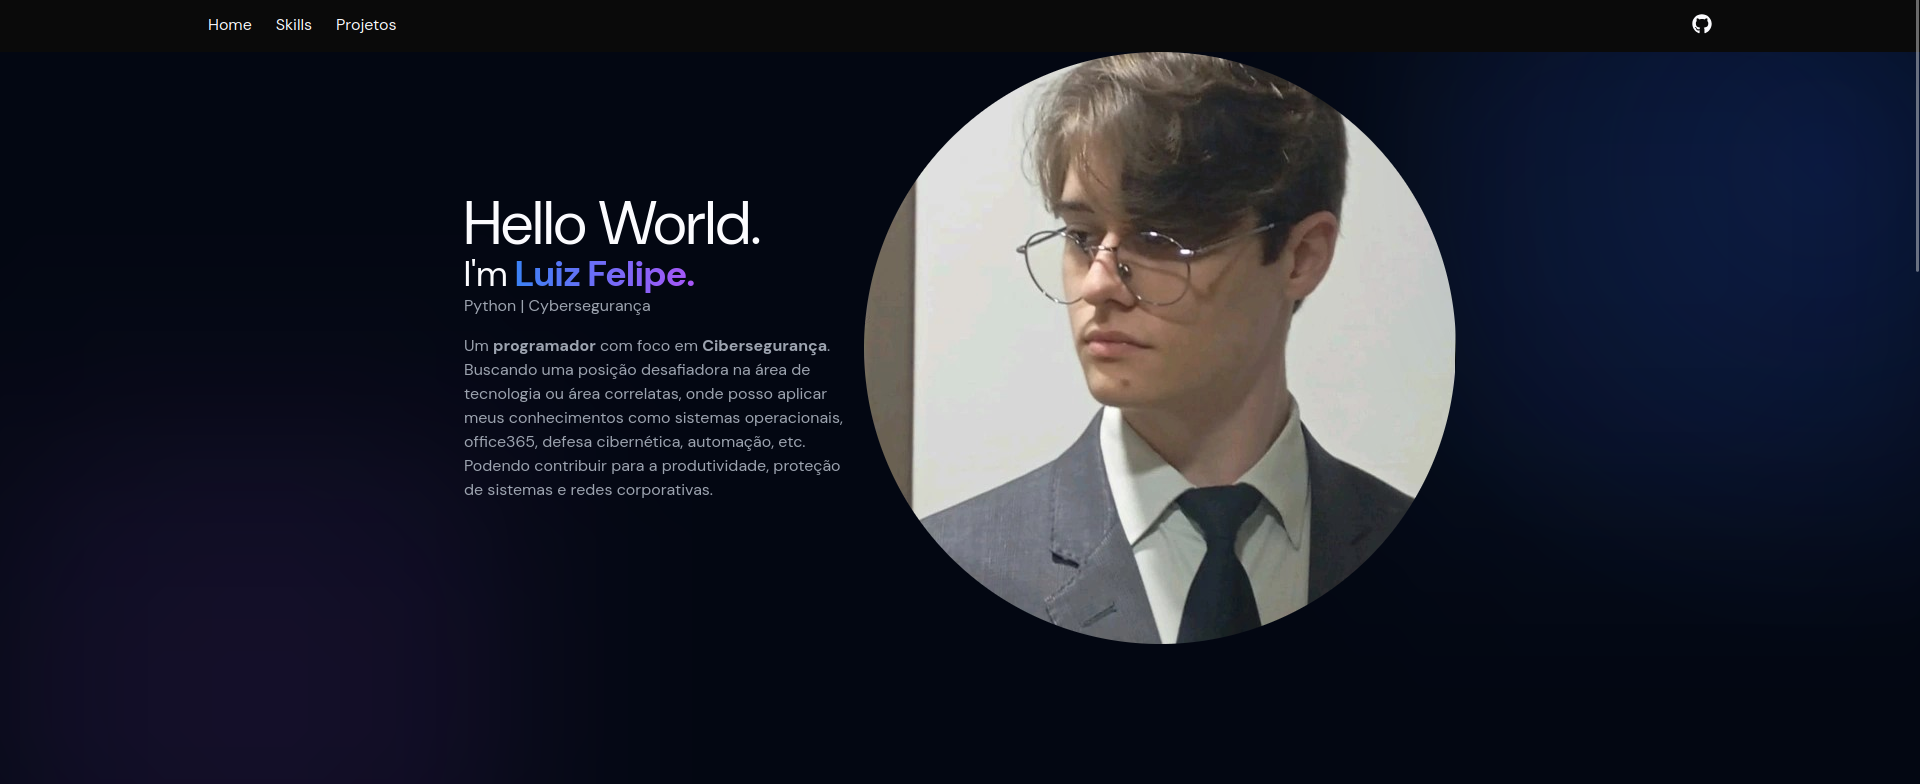
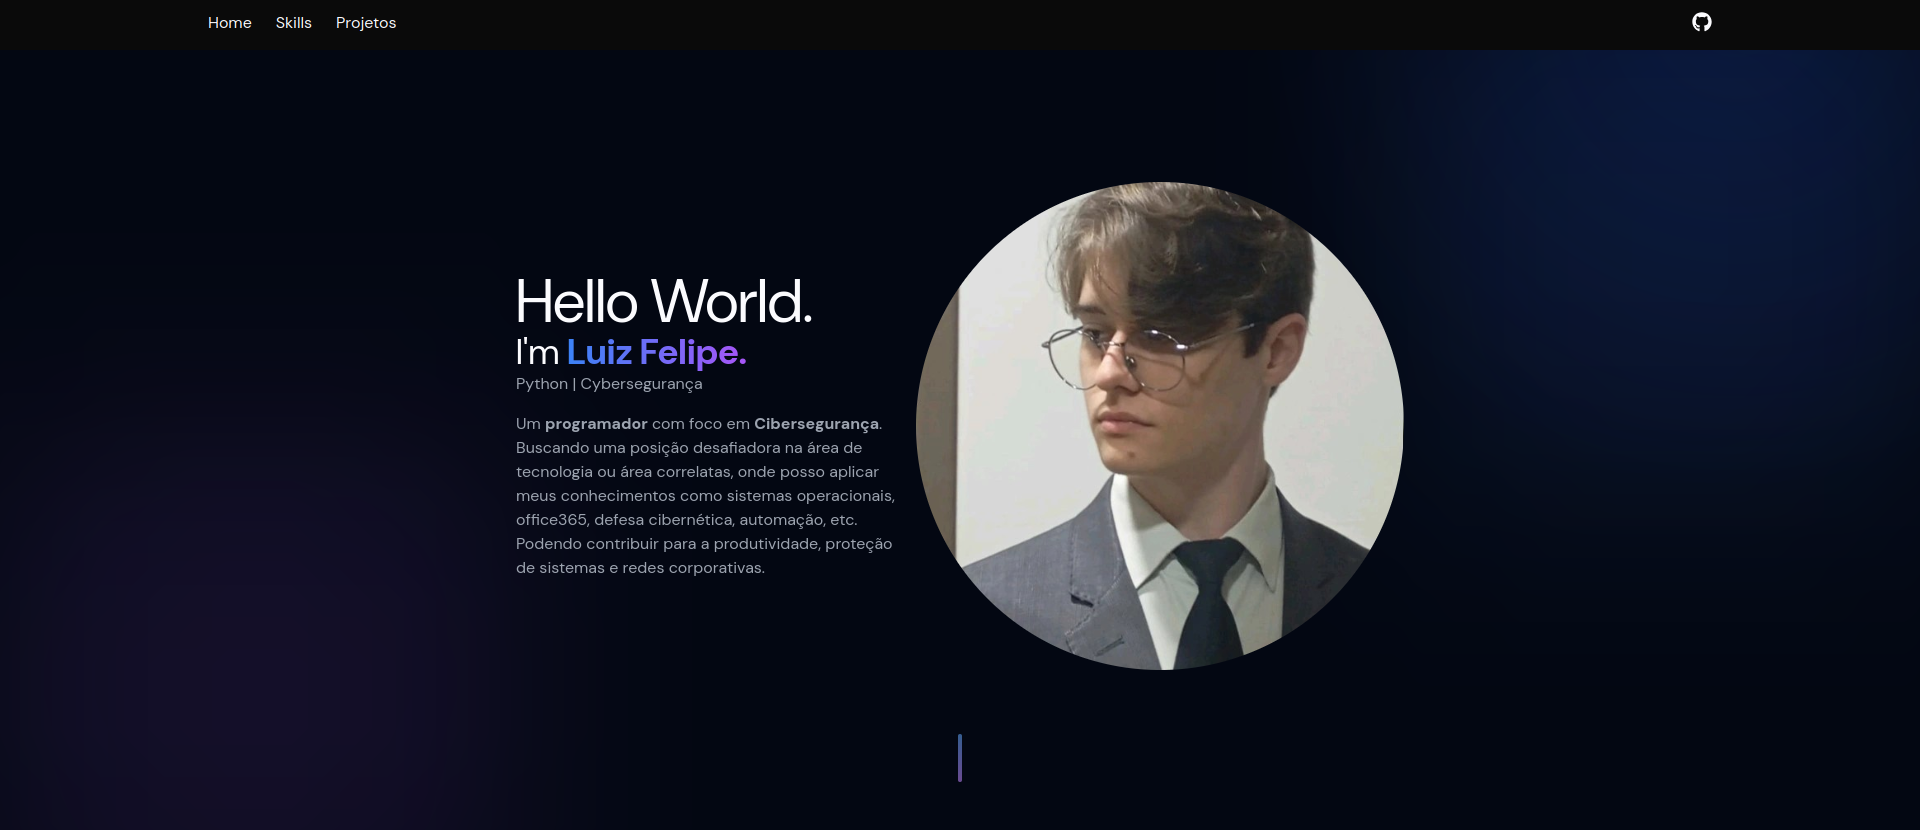
Ajusta tamanho de imagem

diff --git a/app/routes/_index.tsx b/app/routes/_index.tsx
@@ -60,7 +60,7 @@ export default function Index() {
 
             <motion.img
               src="/luizFelipe.jpg"
-              className="rounded-full"
+              className="rounded-full w-[30.5rem] h-[30.5rem]"
               initial={{ opacity: 0, x: 50 }}
               animate={{ opacity: 1, x: 0 }}
               transition={{ delay: 0.7, duration: 0.8 }}
@@ -69,7 +69,7 @@ export default function Index() {
 
           {/* elemento decorativo */}
           <motion.div
-            className="p-20 hidden flex-col items-center sm:block"
+            className="p-15 hidden flex-col items-center sm:block"
             initial={{ opacity: 0, y: 20 }}
             animate={{ opacity: 1, y: 0 }}
             transition={{ delay: 1, duration: 0.6 }}
